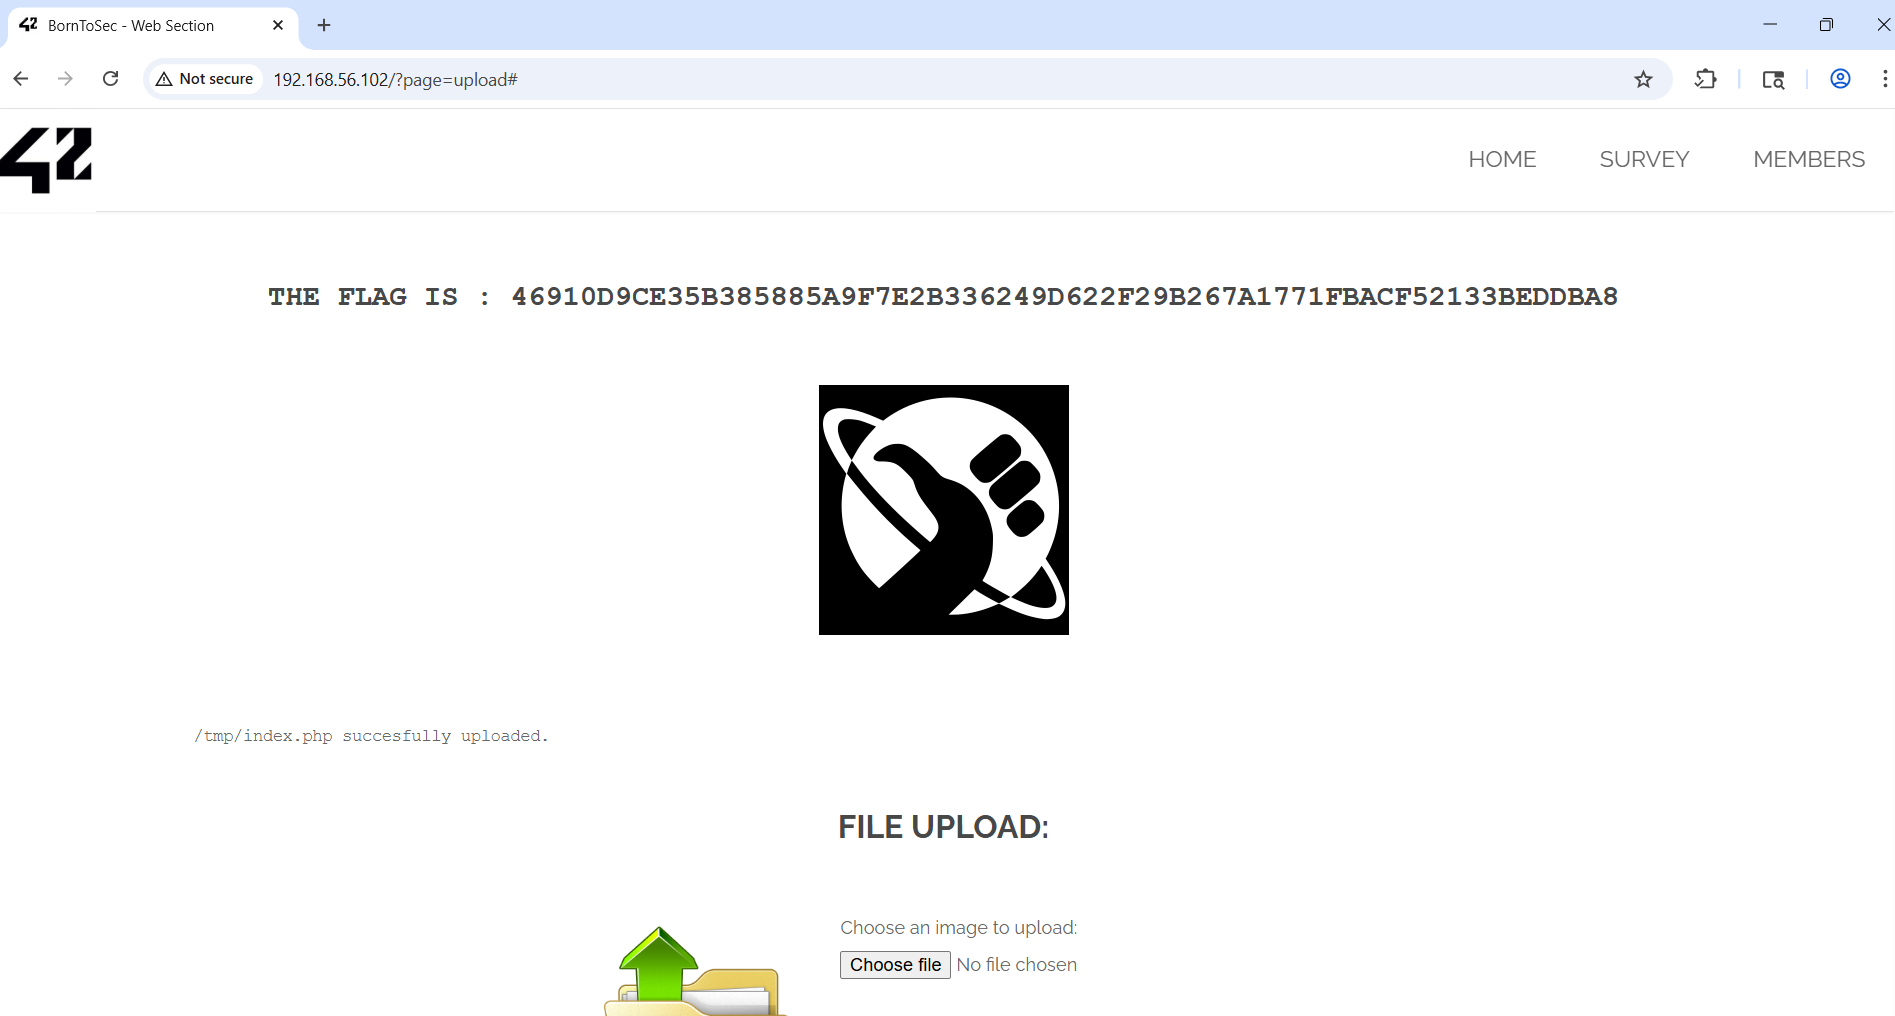
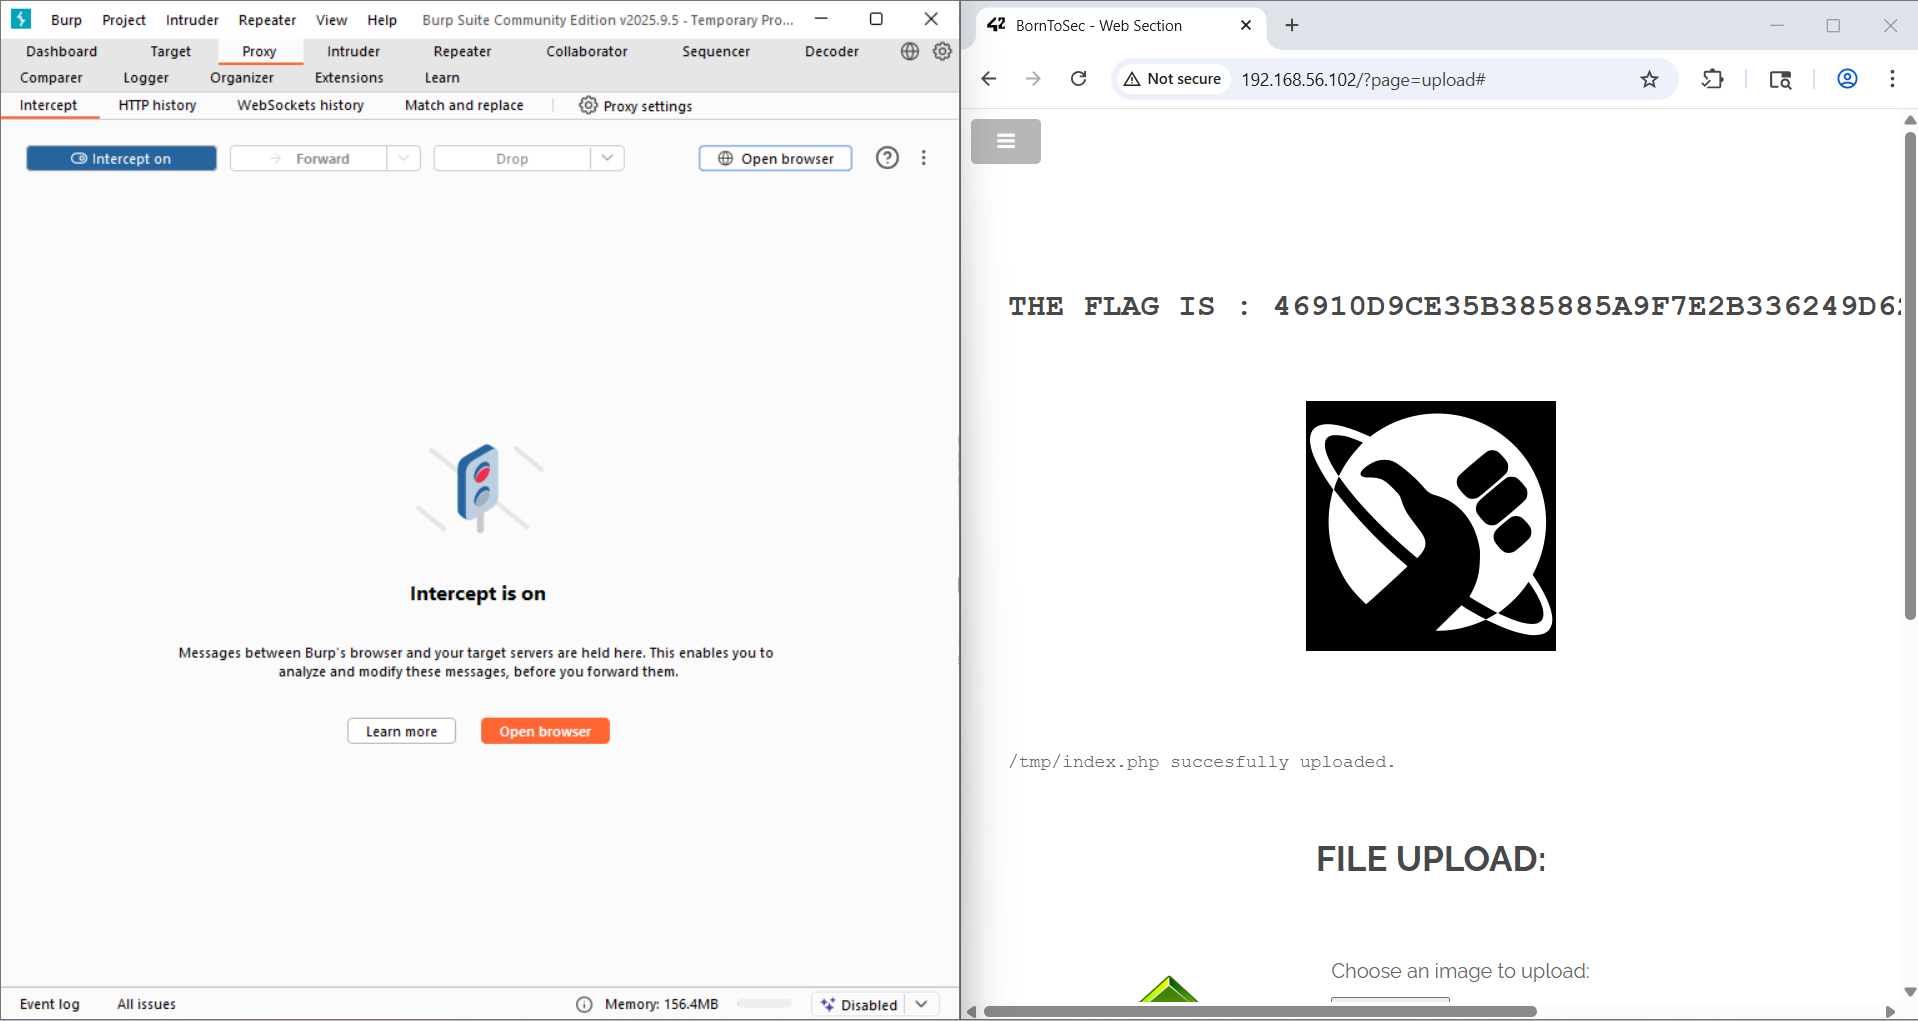
README for flag07

diff --git a/flag07_Unrestricted_file_upload/Resources/README.md b/flag07_Unrestricted_file_upload/Resources/README.md
@@ -1,17 +1,93 @@
-# 
+# Unrestricted file upload - Submit Image with php code integrated
 
 ## Why is it dangerous ?
 
-## 1 - 
+An uploaded file not well filtered can contain malicious code and if the server execute it, this lead to a Remote Code Execution (RCE).
+The web server can be compromised by uploading and executing a web-shell which can run commands, browse system files, browse local resources, attack other servers, or exploit the local vulnerabilities, and so forth.
+The file storage server might be abused to host troublesome files including malwares, illegal software, or adult contents. Uploaded files might also contain malwares’ command and control data, violence and harassment messages, or steganographic data that can be used by criminal organisations.
+
+## 1 - How to find the flag ?
+
+### 1 - Launch Burp and its integrated browser
+
+1. Open **Burp Suite**
+   - Select **Temporary project in memory**
+   - Click **Next**
+   - Choose **Use Burp defaults**
+   - Click **Start Burp**
+
+2. Configure the Proxy
+   - Navigate to **Proxy → Intercept**
+   - Make sure **Intercept is on** (the button should display "Intercept on")
+
+3. Launch the integrated browser
+   - Click **Open Browser** (button in the Proxy tab)
+   - This launches the built-in browser, which is already configured to use Burp as a proxy
+
+---
+
+### 2 - Load the target page
+
+4. In the built-in browser, paste the vulnerable URL:
+   ```
+   http://DarklyIPaddress/?page=upload
+   ```
+Press **Enter** in the default web browser to make it load.
+
+Alternatively, you can click on the **Add Image** button from the homepage.
+
+5. The page should load indefinitely - this is a good sign
+
+### 3 - Go back to Burp Suite
+
+6. The request will arrive in **Proxy → Intercept → Request** and will be blocked (intercepted). Now you have to click on **Forward**.
+
+After clicking on **Forward**, you should see this:
+<p align="center">
+  <img src="step1.png" width="800" alt="Initial intercepted request">
+</p>
+
+### 4 - Create the script
+
+7. Create any php script. Make sure you save it as a php file. This won't work if it's a text file.
+You can see the index.php file created for this purpose in the folder.
+
+8. Upload the script into the darkly website in the Burp Suite web browser. Click on **Upload** button.
+
+### Change HTTP request in Burp Suite
+
+9. Go back to Burp Suite. In the **Proxy** panel, you have a **Request** window. Inside of this window, you will change: `Content-Type: application/octet-stream` into `Content-Type: image/jpg`
+
+After modifying the HTTP request, you should have this piece of code:
+<p align="center">
+  <img src="step2.png" width="800" alt="HTTP Header modified">
+</p>
+
+10. Press **forward** button.
+
+---
 
 ## 2 - Result
 
-You should be redirected on the page that contains the flag.
+You should see the page that contains the flag.
 <p align="center">
-  <img src="flag.png" width="800">
+  <img src="flag07.png" width="800">
 </p>
----
 
-## How to prevent it ? 
+## How to prevent it ?
+
+- Never trust what the client is sending. Always verify on the server-side what has been sent. 
+- Never trust the header of a uploaded file sent by the client.
+- If the server is waiting for an image to be uploaded, you can use server libraries to re-encode the image. In that way, you are sure that the file sent is strictly the category file that you want.
+- Store the files sent by the client outside the webroot and deactivate any execution mode. Just grant the rw (Read+Write) permissions.
+- Rename the file (with UUID for example) sent by the client and force the extension wanted by the server. Avoid as well double extensions (like shell.php.jpg).
+- Before the file exposure, store it in a clustered environment, like a sandbox.
+- Block any executable extensions like .php, .exe, .sh, ... and refuse any suspicious file. Verify also the SVG file because they can contain JS code.
+- Set a file size limit
 
 ## References:
+[File_Upload_Cheat_Sheet](https://cheatsheetseries.owasp.org/cheatsheets/File_Upload_Cheat_Sheet.html)
+
+[file-upload](https://portswigger.net/web-security/file-upload)
+
+[Unrestricted_File_Upload](https://owasp.org/www-community/vulnerabilities/Unrestricted_File_Upload)

diff --git a/flag12_HTTP_Header_Spoofing/Resources/README.md b/flag12_HTTP_Header_Spoofing/Resources/README.md
@@ -32,6 +32,7 @@ Starting with these informations, we already have some clues.
 
 1. Open **Burp Suite**
    - Select **Temporary project in memory**
+   - Click **Next**
    - Choose **Use Burp defaults**
    - Click **Start Burp**
 
@@ -52,11 +53,11 @@ Starting with these informations, we already have some clues.
    http://DarklyIPaddress/?page=b7e44c7a40c5f80139f0a50f3650fb2bd8d00b0d24667c4c2ca32c88e13b758f
    ```
 
-2. Press **Enter**
+2. Press **Enter** in the default web browser to make it load.
 
 3. The page should load indefinitely - this is a good sign
 
-4. The request will arrive in **Proxy → Intercept → Request** and will be blocked (intercepted)
+4. In Burp Suite, the request will arrive in **Proxy → Intercept → Request** and will be blocked (intercepted)
 
 ---
 
